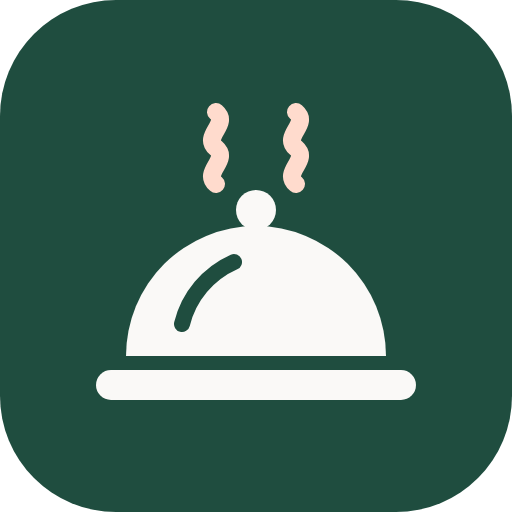
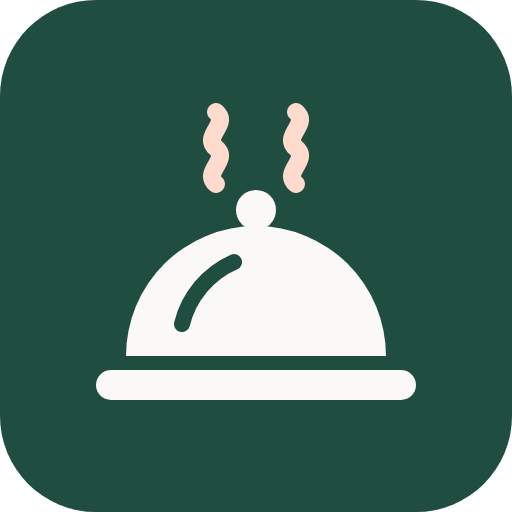
feat(web): logotipo en IBM Plex Serif y esquina del isotipo más recta [T16]

diff --git a/apps/web/src/components/Logo.tsx b/apps/web/src/components/Logo.tsx
@@ -27,7 +27,7 @@ function Glyph() {
 export function Isotipo({ className = 'h-10 w-10', framed = true }: { className?: string; framed?: boolean }) {
   return (
     <svg viewBox="0 0 512 512" className={className} aria-hidden="true" focusable="false">
-      {framed && <rect width="512" height="512" rx="116" fill="var(--color-brand)" />}
+      {framed && <rect width="512" height="512" rx="96" fill="var(--color-brand)" />}
       <Glyph />
     </svg>
   )

diff --git a/apps/web/scripts/brand.py b/apps/web/scripts/brand.py
@@ -1,7 +1,7 @@
 #!/usr/bin/env python3
 """Genera los SVG de la marca Cáterin (T14, ADR-008) en `public/brand/` y el favicon `public/icon.svg`.
 
-El logotipo usa Bricolage Grotesque (OFL) convertida a trazos, para que el SVG se vea igual sin la fuente instalada.
+El logotipo usa IBM Plex Serif 500 (OFL; T16, ADR-010) convertida a trazos, para que el SVG se vea igual sin la fuente instalada.
 Necesita fontTools (no es dependencia de la app; solo se usa al rediseñar la marca):
 
     pip install --target /tmp/pylib "fonttools==4.60.1" "brotli==1.1.0"
@@ -18,18 +18,17 @@ from pathlib import Path
 from fontTools.pens.svgPathPen import SVGPathPen
 from fontTools.pens.transformPen import TransformPen
 from fontTools.ttLib import TTFont
-from fontTools.varLib import instancer
 
 WEB = Path(__file__).resolve().parent.parent
-FONT = WEB / "node_modules/@fontsource-variable/bricolage-grotesque/files/bricolage-grotesque-latin-wght-normal.woff2"
+FONT = WEB / "node_modules/@fontsource/ibm-plex-serif/files/ibm-plex-serif-latin-500-normal.woff2"
 OUT = WEB / "public/brand"
 
 LAUREL = "#1f4d3f"  # semilla (token brand)
 CREAM = "#faf9f7"  # surface del tema (on-brand): casi blanco, sin crema
 STEAM = "#ffdbcd"  # tertiary-container (brand-steam): vapor cobre, "comida caliente"
 WORD = "Cáterin"
-WEIGHT = 640
-TRACKING = -12  # unidades de la fuente (1000 por em)
+TRACKING = -14  # unidades de la fuente (1000 por em): la serif grande se ve mejor un poco más junta
+RADIUS = 96  # esquina del cuadrado del isotipo (de 512): casi recta, como el resto de la interfaz (T16)
 
 # --------------------------------------------------------------------------- isotipo (caja de 512)
 
@@ -52,7 +51,7 @@ def glyph(fg: str = CREAM, steam: str = STEAM, shine: str = LAUREL) -> str:
 def isotipo() -> str:
     return (
         '<svg xmlns="http://www.w3.org/2000/svg" viewBox="0 0 512 512">'
-        f'<title>Cáterin</title><rect width="512" height="512" rx="116" fill="{LAUREL}"/>{glyph()}</svg>\n'
+        f'<title>Cáterin</title><rect width="512" height="512" rx="{RADIUS}" fill="{LAUREL}"/>{glyph()}</svg>\n'
     )
 
 
@@ -71,7 +70,7 @@ def mono(ink: str = "#000000") -> str:
     return (
         '<svg xmlns="http://www.w3.org/2000/svg" viewBox="0 0 512 512"><title>Cáterin</title>'
         f'<mask id="m"><rect width="512" height="512" fill="#fff"/>{cut}</mask>'
-        f'<rect width="512" height="512" rx="116" fill="{ink}" mask="url(#m)"/></svg>\n'
+        f'<rect width="512" height="512" rx="{RADIUS}" fill="{ink}" mask="url(#m)"/></svg>\n'
     )
 
 
@@ -81,7 +80,6 @@ def mono(ink: str = "#000000") -> str:
 def wordmark() -> tuple[str, float, float, float]:
     """Devuelve (path d, ancho, alto de mayúscula, descendente) en unidades de la fuente, con la línea base en y=0."""
     font = TTFont(FONT)
-    font = instancer.instantiateVariableFont(font, {"wght": WEIGHT})
     gs = font.getGlyphSet()
     cmap = font.getBestCmap()
     pen = SVGPathPen(gs)
@@ -103,7 +101,7 @@ def horizontal(word: tuple[str, float, float, float], color: str = LAUREL, iso: 
     w_word = width * scale
     total = 512 + gap + w_word
     baseline = 256 + cap * scale / 2
-    iso_svg = f'<rect width="512" height="512" rx="116" fill="{LAUREL}"/>{glyph()}' if iso else ""
+    iso_svg = f'<rect width="512" height="512" rx="{RADIUS}" fill="{LAUREL}"/>{glyph()}' if iso else ""
     return (
         f'<svg xmlns="http://www.w3.org/2000/svg" viewBox="0 0 {total:.0f} 512"><title>Cáterin</title>{iso_svg}'
         f'<path transform="translate({512 + gap} {baseline:.1f}) scale({scale:.4f})" fill="{color}" d="{d}"/></svg>\n'
@@ -122,7 +120,7 @@ def stacked(word: tuple[str, float, float, float]) -> str:
     wx = (total_w - w_word) / 2
     return (
         f'<svg xmlns="http://www.w3.org/2000/svg" viewBox="0 0 {total_w:.0f} {height:.0f}"><title>Cáterin</title>'
-        f'<g transform="translate({ix:.1f} 0)"><rect width="512" height="512" rx="116" fill="{LAUREL}"/>{glyph()}</g>'
+        f'<g transform="translate({ix:.1f} 0)"><rect width="512" height="512" rx="{RADIUS}" fill="{LAUREL}"/>{glyph()}</g>'
         f'<path transform="translate({wx:.1f} {baseline:.1f}) scale({scale:.4f})" fill="{LAUREL}" d="{d}"/></svg>\n'
     )
 

diff --git a/THIRD_PARTY_NOTICES.md b/THIRD_PARTY_NOTICES.md
@@ -42,7 +42,7 @@ Licencias de los modelos y dependencias principales. Revisado el 9-nov-2026. Las
 | React, React DOM, React Router, Vite, Tailwind CSS, vite-plugin-pwa, Workbox, Vitest, Testing Library, ESLint, typescript-eslint | MIT |
 | `@axe-core/playwright` y `axe-core` (solo pruebas de accesibilidad; no se distribuyen con la app) | MPL-2.0 |
 | TypeScript | Apache-2.0 |
-| Roboto (`@fontsource/roboto`) y Bricolage Grotesque (`@fontsource-variable/bricolage-grotesque`), fuentes incluidas en la app (T14) | OFL-1.1 (SIL Open Font License) |
+| IBM Plex Sans, Serif y Mono (`@fontsource-variable/ibm-plex-sans`, `@fontsource/ibm-plex-serif`, `@fontsource/ibm-plex-mono`), fuentes incluidas en la app y en el logotipo (T16; antes Roboto y Bricolage Grotesque) | OFL-1.1 (SIL Open Font License) |
 | Íconos de Material Icons (trazos SVG copiados en `components/Icon.tsx`) | Apache-2.0 (Google) |
 | `@material/material-color-utilities` (solo genera el tema con `npm run theme`; no se distribuye) | Apache-2.0 |
 | Playwright (pruebas y generación de los PNG de la marca; no se distribuye) | Apache-2.0 |
